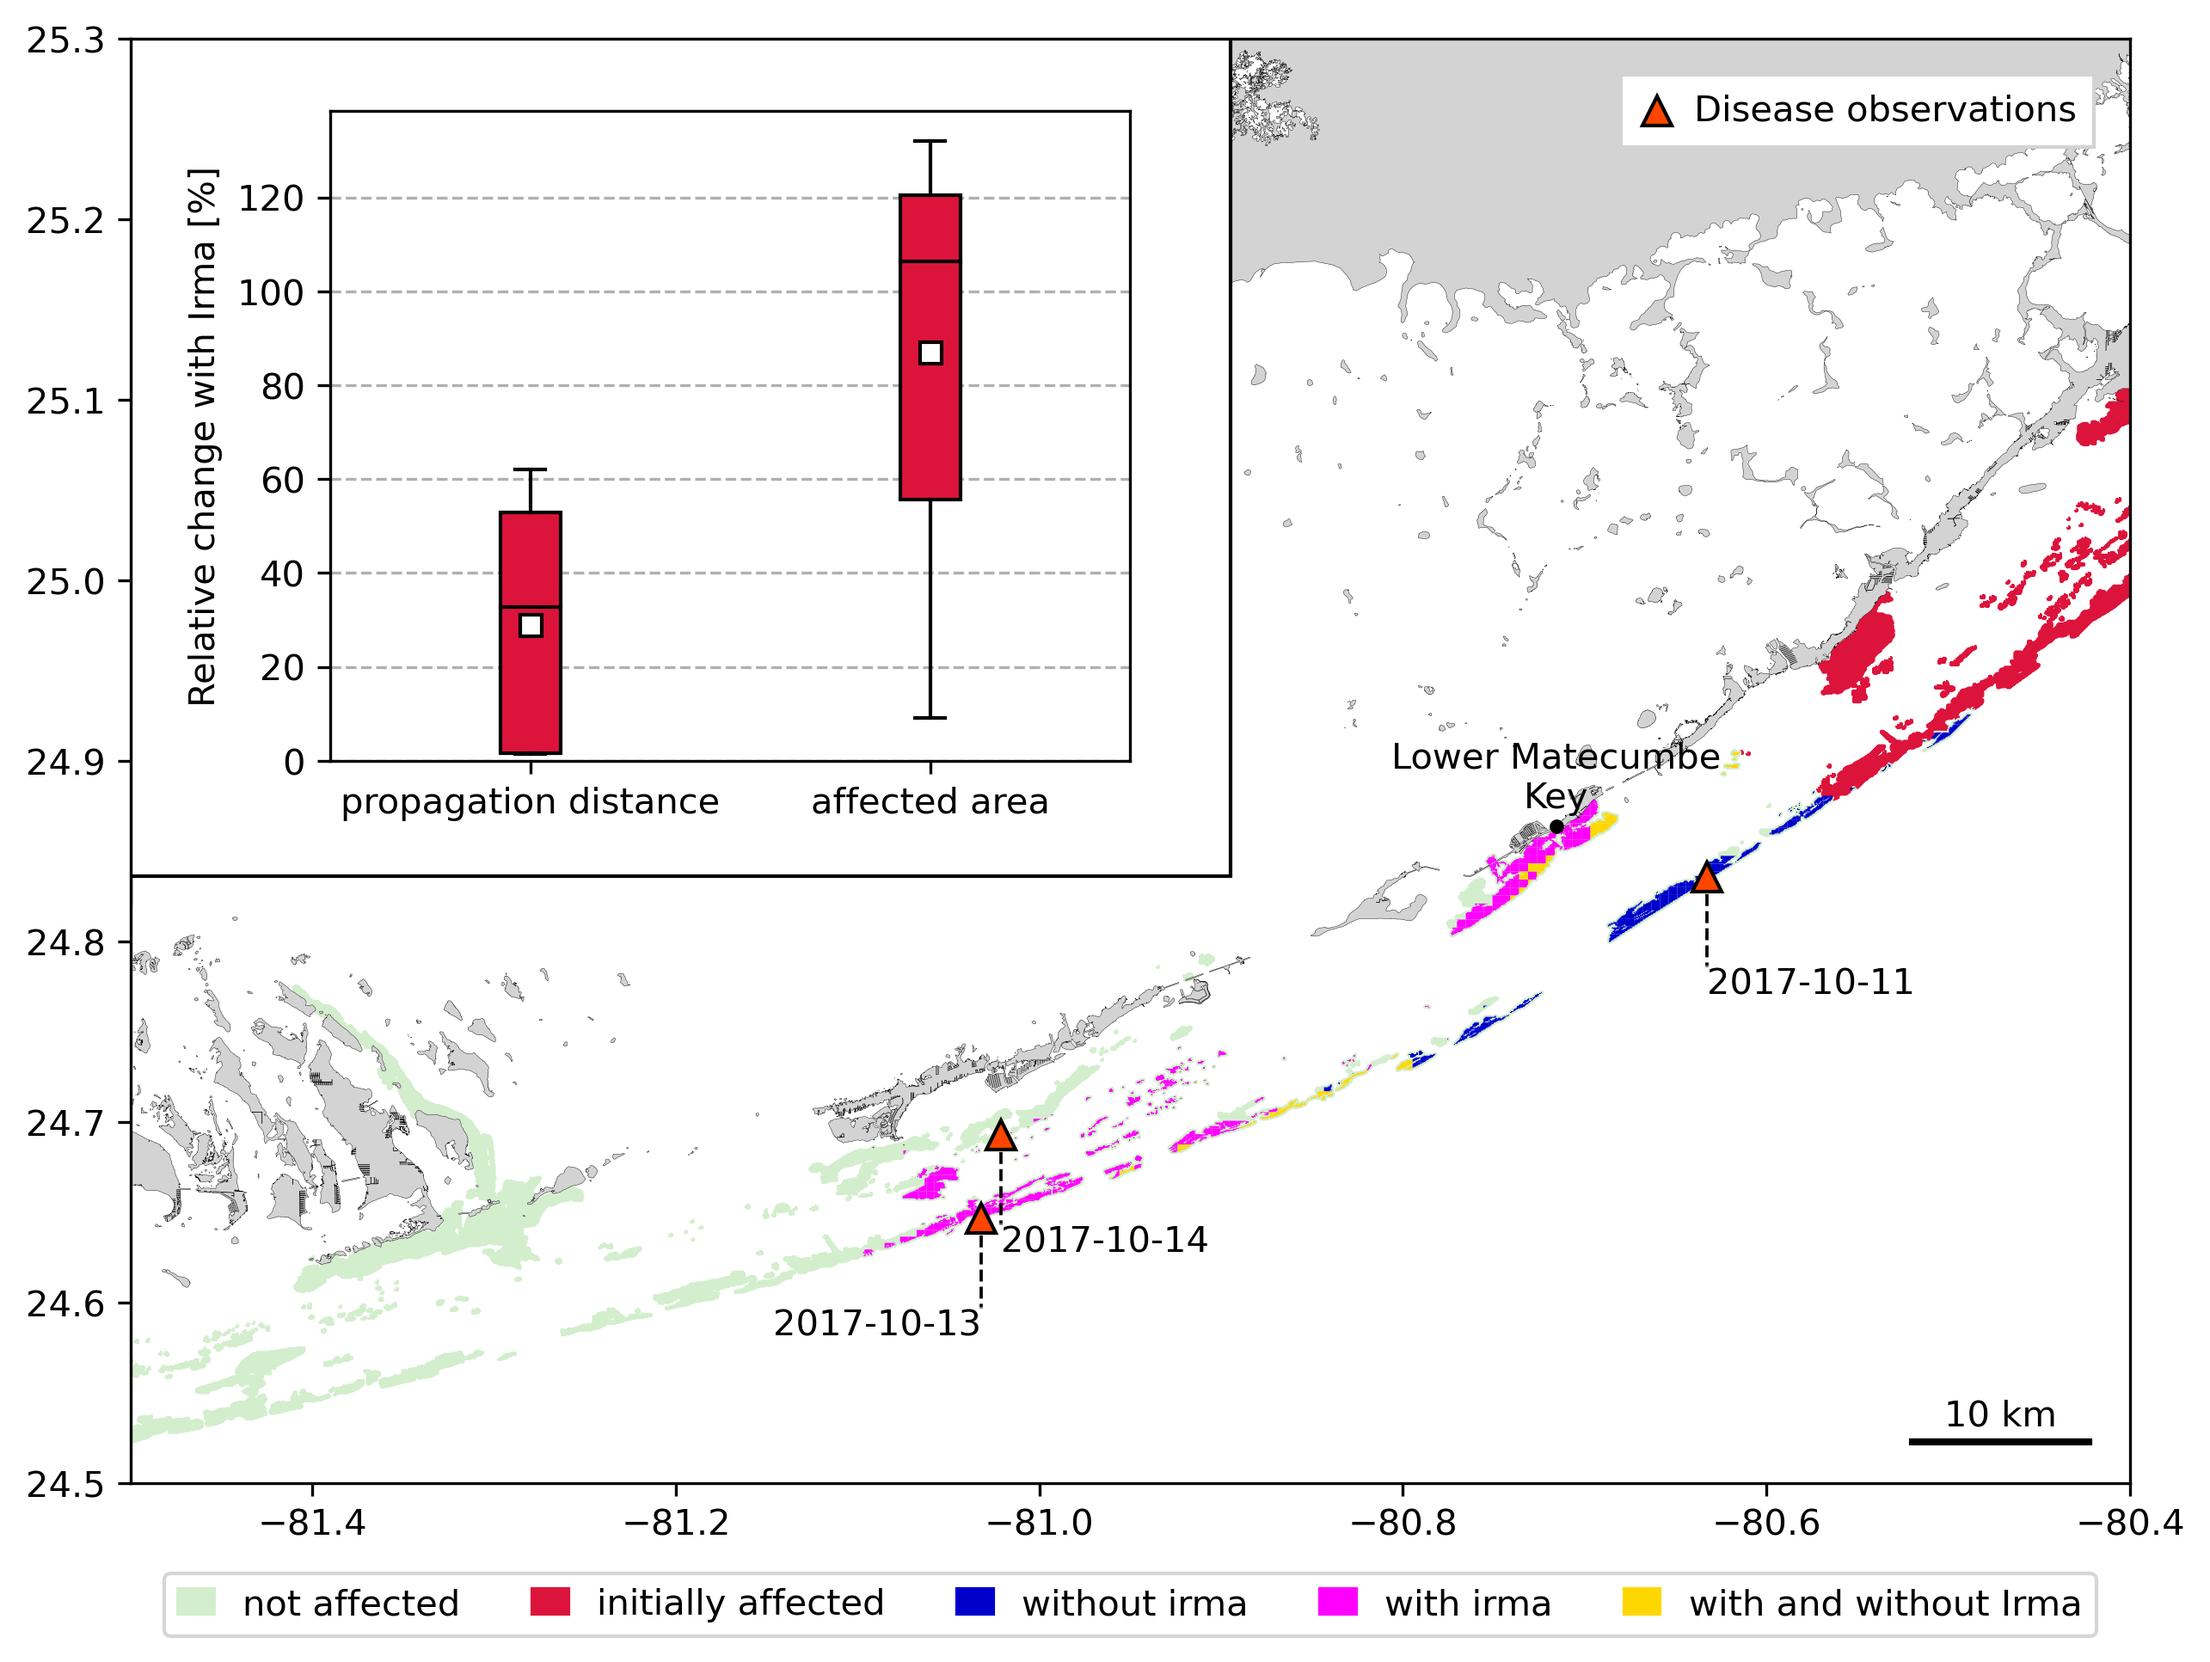
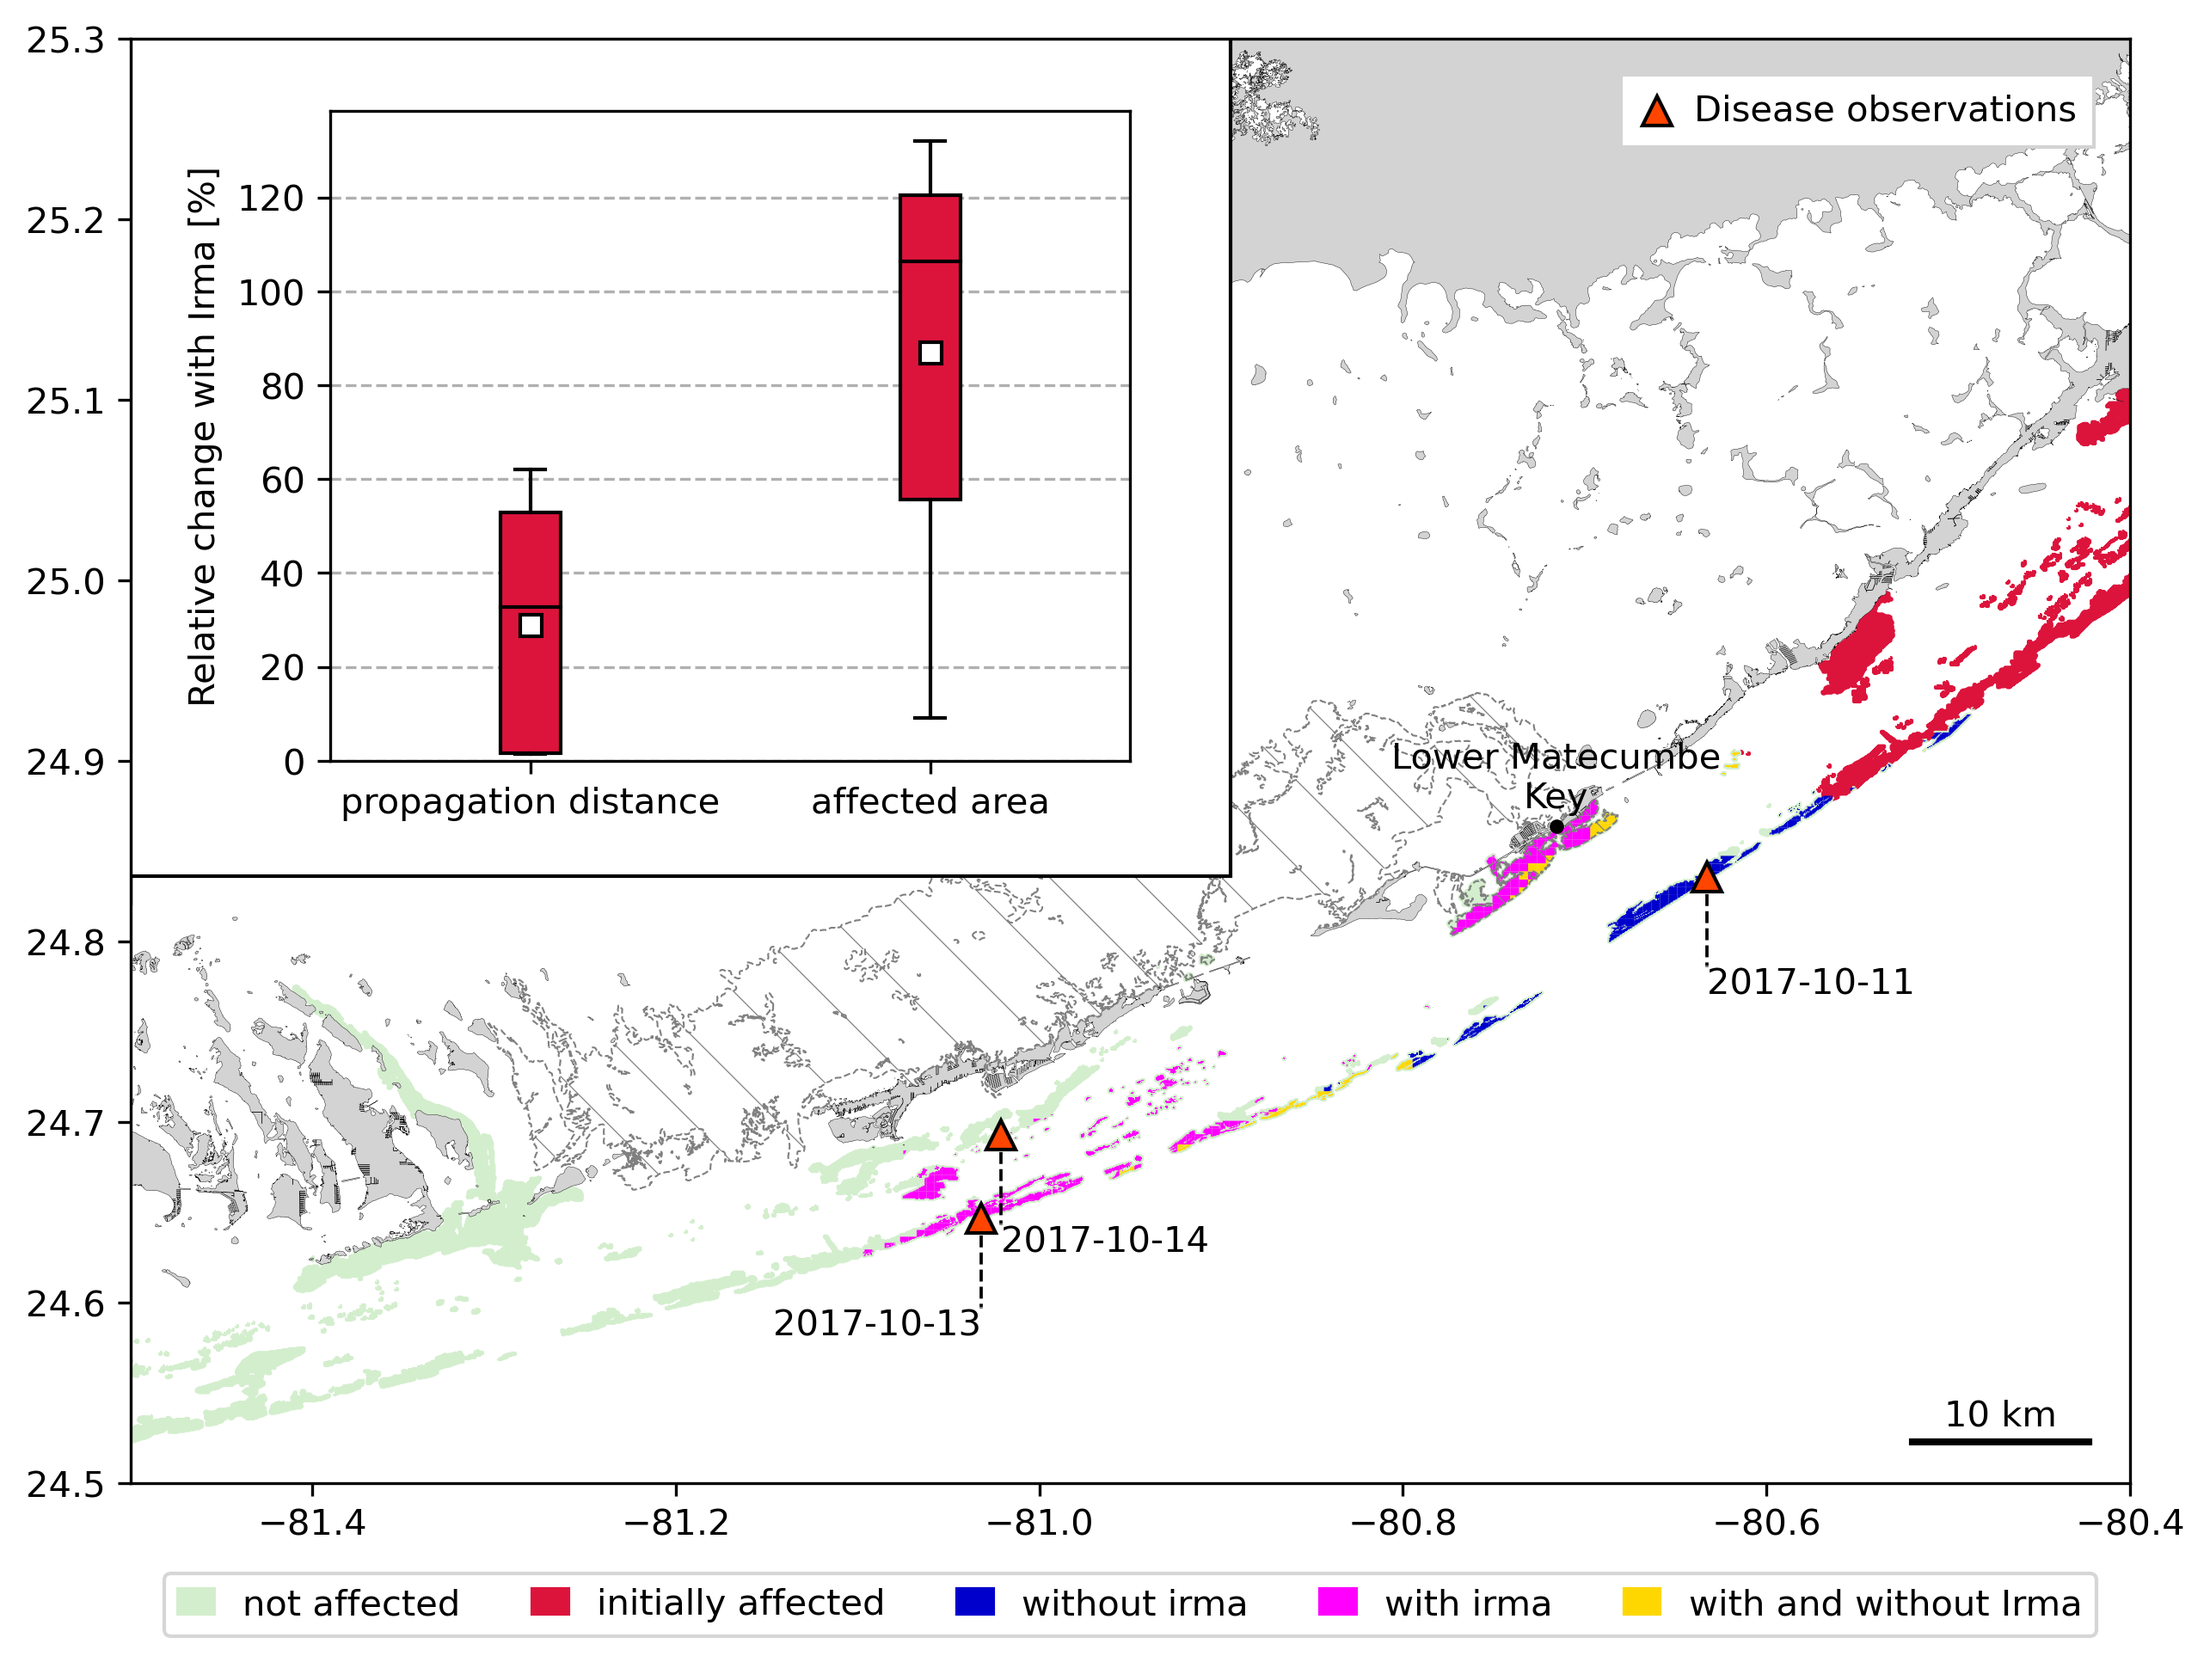
Vaca Reef added to fig. 5

diff --git a/main.tex b/main.tex
@@ -279,7 +279,7 @@ The results of our epidemiological model were validated against disease observat
     \centering
     \includegraphics[width=.8\textwidth]{figures/propagation_boxplot_obs.png}
     \caption{
-        Propagation of the disease simulated by the connectivity-based epidemiological model between Sept. 1 and Dec. 1 2017 using the reference (\modif{dark blue}) and hurricane (\modif{magenta}) connectivity matrices. Reefs affected by SCTLD prior to Sep 1 2017 are shown in red and fully susceptible reefs in green. Disease observations after the passage of Irma and until Dec. 1 2017 \modif{from (i) Coral Reef Evaluation and Monitoring Project (CREMP; 2014–2017), (ii) CREMP Presence/Absence Data (CREMP P\_A; 2016–2017), (iii) Southeast Florida Coral Reef Evaluation and Monitoring Project (SECREMP; 2014–2017), (iv) Florida Reef Resilience Program Disturbance Response Monitoring (FRRP; 2014–2017), (v) Hurricane Irma Rapid Reef Assessment (IRMA; 2017), (vi) the Southeast Florida Action Network citizen science program (SEAFAN; 2014–2017), and (vii) the \modif{Southern} Coral Disease Margin field effort (2017 and 2018)} are shown with red triangles. The upper left graph shows the relative change in the distance travelled by the disease front and the total affected area when accounting for Irma \modif{for} different values of the model's infection threshold. The central lines of the boxes and the white square respectively indicate the median and mean of the relative change, the bottom and \modif{top} of the boxes indicate the 25th and 75th percentiles respectively, while the minimum and maximum of the relative change are indicated by the bottom and top whiskers. On average, the hurricane caused  a 28.9\% increase in disease propagation distance and an 87.0\% increase in affected area, equivalent to about 25 days of disease propagation under fair weather conditions.
+        Propagation of the disease simulated by the connectivity-based epidemiological model between Sept. 1 and Dec. 1 2017 using the reference (\modif{dark blue}) and hurricane (\modif{magenta}) connectivity matrices. Reefs affected by SCTLD prior to Sep 1 2017 are shown in red and fully susceptible reefs in green. \modif{\textit{Vaca Reef}, which was filtered out of the connectivity matrices, is represented by a hashed white polygon.} Disease observations after the passage of Irma and until Dec. 1 2017 \modif{from (i) Coral Reef Evaluation and Monitoring Project (CREMP; 2014–2017), (ii) CREMP Presence/Absence Data (CREMP P\_A; 2016–2017), (iii) Southeast Florida Coral Reef Evaluation and Monitoring Project (SECREMP; 2014–2017), (iv) Florida Reef Resilience Program Disturbance Response Monitoring (FRRP; 2014–2017), (v) Hurricane Irma Rapid Reef Assessment (IRMA; 2017), (vi) the Southeast Florida Action Network citizen science program (SEAFAN; 2014–2017), and (vii) the \modif{Southern} Coral Disease Margin field effort (2017 and 2018)} are shown with red triangles. The upper left graph shows the relative change in the distance travelled by the disease front and the total affected area when accounting for Irma \modif{for} different values of the model's infection threshold. The central lines of the boxes and the white square respectively indicate the median and mean of the relative change, the bottom and \modif{top} of the boxes indicate the 25th and 75th percentiles respectively, while the minimum and maximum of the relative change are indicated by the bottom and top whiskers. On average, the hurricane caused  a 28.9\% increase in disease propagation distance and an 87.0\% increase in affected area, equivalent to about 25 days of disease propagation under fair weather conditions.
     }\label{fig:propagation}
 \end{figure}
 
